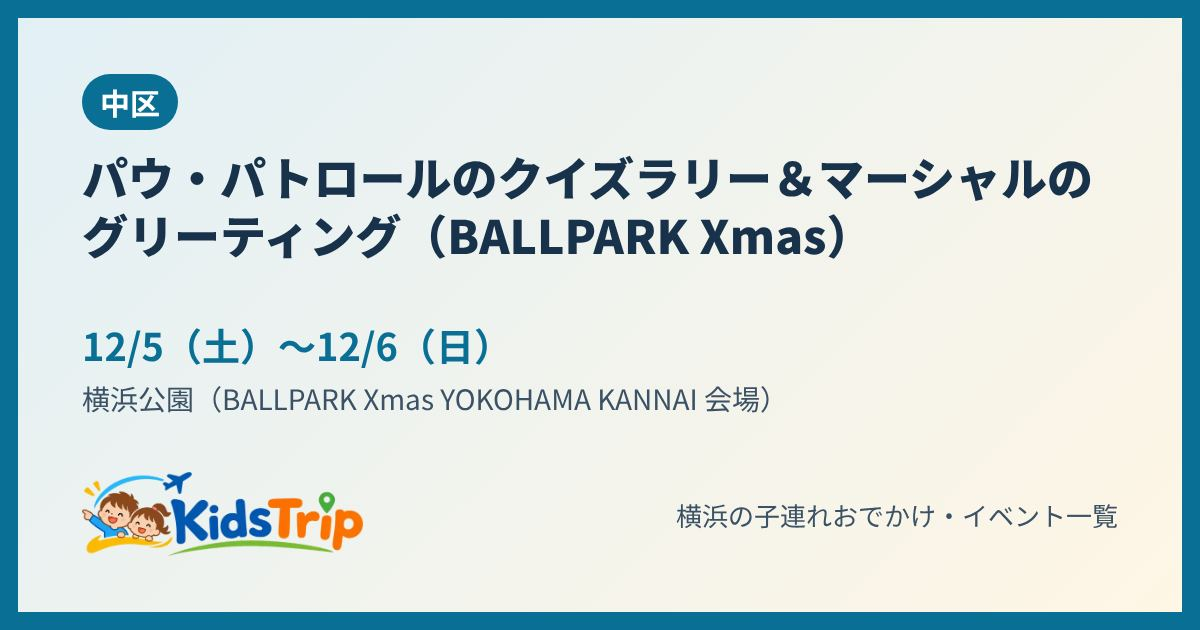
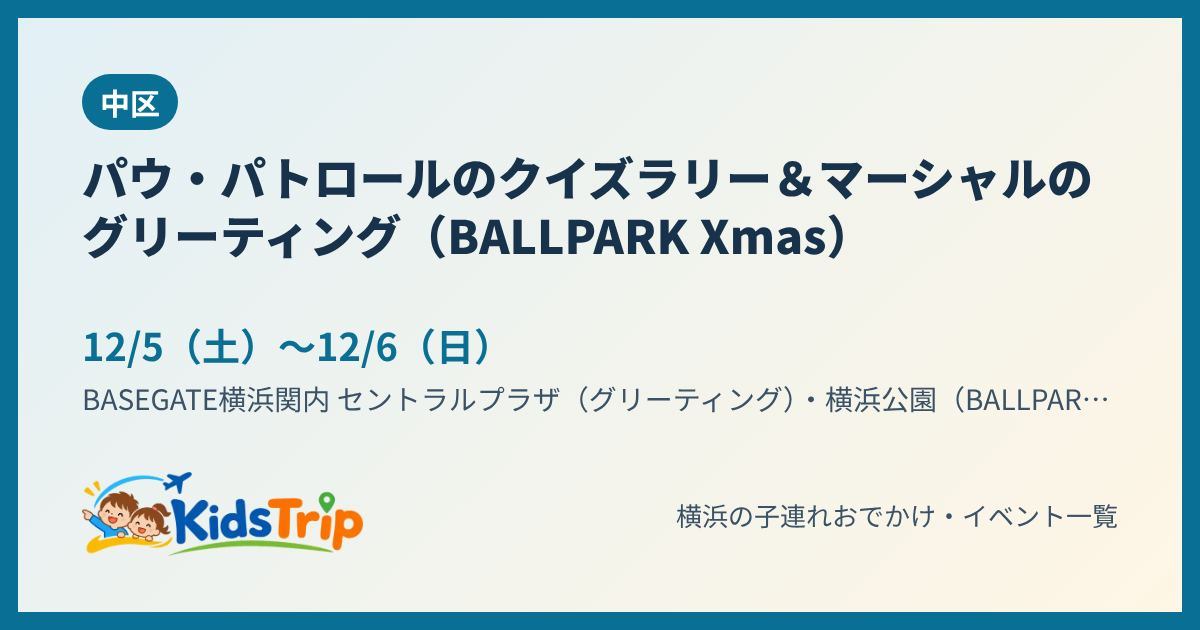
11月26日 夕方の確認：パウ・パトロールのマーシャルのグリーティング（12/5・BASEGATE横浜関内）の時間・整理券を公式で追記
Claude-Session: https://claude.ai/code/session_014AtJ2dSz5dbutQWCRpLEmR

Changed region(s): [[0.0617, 0.6032, 0.925, 0.6635]]

diff --git a/event/x0mfmo/index.html b/event/x0mfmo/index.html
@@ -4,12 +4,12 @@
 <meta charset="utf-8">
 <meta name="viewport" content="width=device-width, initial-scale=1">
 <title>パウ・パトロールのクイズラリー＆マーシャルのグリーティング（BALLPARK Xmas）（中区）｜横浜の子連れイベント｜KidsTrip</title>
-<meta name="description" content="12月5日(土)・12月6日(日)　横浜公園（BALLPARK Xmas YOKOHAMA KANNAI 会場）。横浜公園のクリスマスイベントで、パウ・パトロールのクイズラリーと、マーシャルとのグリーティングがある2日間。11/30〜12/">
+<meta name="description" content="12月5日(土)・12月6日(日)　BASEGATE横浜関内 セントラルプラザ（グリーティング）・横浜公園（BALLPARK Xmas 会場）。パウ・パトロールとBALLPARK Xmasのコラボ。12/5はBASEGATE横浜関内でクリス">
 <link rel="canonical" href="https://kidstrip.jp/event/x0mfmo/">
 <meta property="og:type" content="article">
 <meta property="og:site_name" content="KidsTrip">
 <meta property="og:title" content="パウ・パトロールのクイズラリー＆マーシャルのグリーティング（BALLPARK Xmas）（中区）｜横浜の子連れイベント｜KidsTrip">
-<meta property="og:description" content="12月5日(土)・12月6日(日)　横浜公園（BALLPARK Xmas YOKOHAMA KANNAI 会場）。横浜公園のクリスマスイベントで、パウ・パトロールのクイズラリーと、マーシャルとのグリーティングがある2日間。11/30〜12/">
+<meta property="og:description" content="12月5日(土)・12月6日(日)　BASEGATE横浜関内 セントラルプラザ（グリーティング）・横浜公園（BALLPARK Xmas 会場）。パウ・パトロールとBALLPARK Xmasのコラボ。12/5はBASEGATE横浜関内でクリス">
 <meta property="og:url" content="https://kidstrip.jp/event/x0mfmo/">
 <meta property="og:image" content="https://kidstrip.jp/og/x0mfmo.jpg">
 <meta property="og:image:width" content="1200">
@@ -21,7 +21,7 @@
 <link rel="icon" href="../../img/favicon.png">
 <link rel="apple-touch-icon" href="../../img/apple-touch-icon.png">
 <script type="application/ld+json">{"@context": "https://schema.org", "@type": "BreadcrumbList", "itemListElement": [{"@type": "ListItem", "position": 1, "name": "トップ", "item": "https://kidstrip.jp/"}, {"@type": "ListItem", "position": 2, "name": "イベント一覧", "item": "https://kidstrip.jp/event/"}, {"@type": "ListItem", "position": 3, "name": "パウ・パトロールのクイズラリー＆マーシャルのグリーティング（BALLPARK Xmas）"}]}</script>
-<script type="application/ld+json">{"@context": "https://schema.org", "@type": "Event", "name": "パウ・パトロールのクイズラリー＆マーシャルのグリーティング（BALLPARK Xmas）", "startDate": "2026-12-05", "endDate": "2026-12-06", "eventStatus": "https://schema.org/EventScheduled", "eventAttendanceMode": "https://schema.org/OfflineEventAttendanceMode", "location": {"@type": "Place", "name": "横浜公園（BALLPARK Xmas YOKOHAMA KANNAI 会場）", "address": {"@type": "PostalAddress", "addressLocality": "横浜市中区", "addressRegion": "神奈川県", "addressCountry": "JP"}, "geo": {"@type": "GeoCoordinates", "latitude": 35.4432, "longitude": 139.64}}, "description": "横浜公園のクリスマスイベントで、パウ・パトロールのクイズラリーと、マーシャルとのグリーティングがある2日間。11/30〜12/6は限定ショップ・おもちゃ広場も。", "image": ["https://kidstrip.jp/og/x0mfmo.jpg"], "url": "https://kidstrip.jp/event/x0mfmo/", "isAccessibleForFree": false, "inLanguage": "ja"}</script>
+<script type="application/ld+json">{"@context": "https://schema.org", "@type": "Event", "name": "パウ・パトロールのクイズラリー＆マーシャルのグリーティング（BALLPARK Xmas）", "startDate": "2026-12-05", "endDate": "2026-12-06", "eventStatus": "https://schema.org/EventScheduled", "eventAttendanceMode": "https://schema.org/OfflineEventAttendanceMode", "location": {"@type": "Place", "name": "BASEGATE横浜関内 セントラルプラザ（グリーティング）・横浜公園（BALLPARK Xmas 会場）", "address": {"@type": "PostalAddress", "addressLocality": "横浜市中区", "addressRegion": "神奈川県", "addressCountry": "JP"}, "geo": {"@type": "GeoCoordinates", "latitude": 35.4432, "longitude": 139.64}}, "description": "パウ・パトロールとBALLPARK Xmasのコラボ。12/5はBASEGATE横浜関内でクリスマスの衣装のマーシャルとのグリーティングが3回、横浜公園ではクイズラリーなど。11/30〜12/6は限定ショップ・おもちゃ広場も。", "image": ["https://kidstrip.jp/og/x0mfmo.jpg"], "url": "https://kidstrip.jp/event/x0mfmo/", "isAccessibleForFree": false, "inLanguage": "ja"}</script>
 <style>
 .finder{margin:12px 0 6px;display:flex;flex-wrap:wrap;gap:6px;align-items:center}.finder label{font-weight:700;font-size:.95em;width:100%}.finder input{flex:1;min-width:0;font-size:16px;padding:8px 10px;border:1px solid #c9d3dc;border-radius:8px}
 .toc{margin:6px 0 12px;font-size:.9em;line-height:2}.toc a{display:inline-block;margin:0 8px 0 0;white-space:nowrap}
@@ -57,20 +57,20 @@ footer{margin:28px 0 8px;font-size:12px;color:var(--muted)}
 <ul class="chips"><li>料金要確認</li><li>幼児〜小学生</li><li>屋外</li><li>天気に注意</li></ul>
 <table class="info">
 <tr><th>日にち</th><td>12月5日(土)・12月6日(日)</td></tr>
-<tr><th>時間</th><td>時間は未発表（公式サイトで発表）</td></tr>
-<tr><th>場所</th><td>中区・横浜公園（BALLPARK Xmas YOKOHAMA KANNAI 会場）</td></tr>
+<tr><th>時間</th><td>マーシャルのグリーティングは12/5(土)だけ 11:00〜／13:00〜／15:00〜（各回約30分）。クイズラリーの時間は公式ページに記載なし</td></tr>
+<tr><th>場所</th><td>中区・BASEGATE横浜関内 セントラルプラザ（グリーティング）・横浜公園（BALLPARK Xmas 会場）</td></tr>
 <tr><th>料金</th><td>料金は公式ページに記載なし（BALLPARK Xmasの入場は無料）</td></tr>
 <tr><th>対象</th><td>幼児〜小学生</td></tr>
-<tr><th>予約</th><td>参加方法は公式ページに記載なし</td></tr>
-<tr><th>雨の日</th><td>天気に注意（雨天決行（荒天時は休業の場合あり））</td></tr>
+<tr><th>予約</th><td>グリーティングは各回50組、当日に整理券を配る（配る時間などはBALLPARK Xmasの特設サイト・公式SNSで案内予定）</td></tr>
+<tr><th>雨の日</th><td>天気に注意（グリーティングは悪天候のときBASEGATEのビクトリーゲートで行う）</td></tr>
 </table>
-<p class="sum">横浜公園のクリスマスイベントで、パウ・パトロールのクイズラリーと、マーシャルとのグリーティングがある2日間。11/30〜12/6は限定ショップ・おもちゃ広場も。</p>
-<p class="tip">💡 11/25夕方に利用者が送った公式サイトの画面でも、パウ・パトロールの企画（時間・整理券）はまだ載っていない。行く前に公式サイト・公式SNSで確認を</p>
-<p class="small">情報の時点：2026年11月25日　出典：実行委員会のプレスリリース（2026年11月4日）・横浜市観光情報サイト</p>
+<p class="sum">パウ・パトロールとBALLPARK Xmasのコラボ。12/5はBASEGATE横浜関内でクリスマスの衣装のマーシャルとのグリーティングが3回、横浜公園ではクイズラリーなど。11/30〜12/6は限定ショップ・おもちゃ広場も。</p>
+<p class="tip">💡 グリーティングは当日の整理券制で各回50組。整理券を配り始める時間は特設サイト・公式SNSで発表されるので、前日に確認を。関内駅から歩いて1分</p>
+<p class="small">情報の時点：2026年11月26日　出典：BASEGATE横浜関内 公式（イベント&amp;ニュース「パウ・パトロール マーシャル グリーティング」、2026年11月4日時点の情報。利用者が送ったページ）・実行委員会のプレスリリース（2026年11月4日）</p>
 <div class="btns"><a class="btn main" data-act="official" href="https://ballparkxmas.com/2026/" target="_blank" rel="noopener">公式ページで確認</a>
 <a class="btn" href="/?e=x0mfmo">一覧で見る（行き方・近くのごはん）</a>
 <button type="button" class="btn" data-share="1">🔗 リンクを送る・コピー</button>
-<a class="btn line" href="https://line.me/R/share?text=%E3%80%90%E3%83%91%E3%82%A6%E3%83%BB%E3%83%91%E3%83%88%E3%83%AD%E3%83%BC%E3%83%AB%E3%81%AE%E3%82%AF%E3%82%A4%E3%82%BA%E3%83%A9%E3%83%AA%E3%83%BC%EF%BC%86%E3%83%9E%E3%83%BC%E3%82%B7%E3%83%A3%E3%83%AB%E3%81%AE%E3%82%B0%E3%83%AA%E3%83%BC%E3%83%86%E3%82%A3%E3%83%B3%E3%82%B0%EF%BC%88BALLPARK%20Xmas%EF%BC%89%E3%80%91%0A12%E6%9C%885%E6%97%A5%28%E5%9C%9F%29%E3%83%BB12%E6%9C%886%E6%97%A5%28%E6%97%A5%29%E3%80%80%E6%99%82%E9%96%93%E3%81%AF%E6%9C%AA%E7%99%BA%E8%A1%A8%EF%BC%88%E5%85%AC%E5%BC%8F%E3%82%B5%E3%82%A4%E3%83%88%E3%81%A7%E7%99%BA%E8%A1%A8%EF%BC%89%0A%E5%A0%B4%E6%89%80%EF%BC%9A%E4%B8%AD%E5%8C%BA%E3%83%BB%E6%A8%AA%E6%B5%9C%E5%85%AC%E5%9C%92%EF%BC%88BALLPARK%20Xmas%20YOKOHAMA%20KANNAI%20%E4%BC%9A%E5%A0%B4%EF%BC%89%0Ahttps%3A//kidstrip.jp/event/x0mfmo/" target="_blank" rel="noopener">LINEで送る</a></div>
+<a class="btn line" href="https://line.me/R/share?text=%E3%80%90%E3%83%91%E3%82%A6%E3%83%BB%E3%83%91%E3%83%88%E3%83%AD%E3%83%BC%E3%83%AB%E3%81%AE%E3%82%AF%E3%82%A4%E3%82%BA%E3%83%A9%E3%83%AA%E3%83%BC%EF%BC%86%E3%83%9E%E3%83%BC%E3%82%B7%E3%83%A3%E3%83%AB%E3%81%AE%E3%82%B0%E3%83%AA%E3%83%BC%E3%83%86%E3%82%A3%E3%83%B3%E3%82%B0%EF%BC%88BALLPARK%20Xmas%EF%BC%89%E3%80%91%0A12%E6%9C%885%E6%97%A5%28%E5%9C%9F%29%E3%83%BB12%E6%9C%886%E6%97%A5%28%E6%97%A5%29%E3%80%80%E3%83%9E%E3%83%BC%E3%82%B7%E3%83%A3%E3%83%AB%E3%81%AE%E3%82%B0%E3%83%AA%E3%83%BC%E3%83%86%E3%82%A3%E3%83%B3%E3%82%B0%E3%81%AF12/5%28%E5%9C%9F%29%E3%81%A0%E3%81%91%2011%3A00%E3%80%9C%EF%BC%8F13%3A00%E3%80%9C%EF%BC%8F15%3A00%E3%80%9C%EF%BC%88%E5%90%84%E5%9B%9E%E7%B4%8430%E5%88%86%EF%BC%89%E3%80%82%E3%82%AF%E3%82%A4%E3%82%BA%E3%83%A9%E3%83%AA%E3%83%BC%E3%81%AE%E6%99%82%E9%96%93%E3%81%AF%E5%85%AC%E5%BC%8F%E3%83%9A%E3%83%BC%E3%82%B8%E3%81%AB%E8%A8%98%E8%BC%89%E3%81%AA%E3%81%97%0A%E5%A0%B4%E6%89%80%EF%BC%9A%E4%B8%AD%E5%8C%BA%E3%83%BBBASEGATE%E6%A8%AA%E6%B5%9C%E9%96%A2%E5%86%85%20%E3%82%BB%E3%83%B3%E3%83%88%E3%83%A9%E3%83%AB%E3%83%97%E3%83%A9%E3%82%B6%EF%BC%88%E3%82%B0%E3%83%AA%E3%83%BC%E3%83%86%E3%82%A3%E3%83%B3%E3%82%B0%EF%BC%89%E3%83%BB%E6%A8%AA%E6%B5%9C%E5%85%AC%E5%9C%92%EF%BC%88BALLPARK%20Xmas%20%E4%BC%9A%E5%A0%B4%EF%BC%89%0Ahttps%3A//kidstrip.jp/event/x0mfmo/" target="_blank" rel="noopener">LINEで送る</a></div>
 </article>
 
 <h2>近くのおむつ替え・授乳室・お湯（赤レンガ・象の鼻・山下公園・中華街）</h2><table class="bm"><thead><tr><th>場所</th><th>おむつ替え</th><th>授乳室</th><th>お湯</th><th>レンジ</th></tr></thead><tbody><tr><th scope="row"><a href="/spot/382458/">セブン-イレブン 横浜上野町店</a></th><td class="n">×</td><td class="n">×</td><td class="y">○</td><td class="u">？</td></tr><tr><th scope="row"><a href="/spot/ttxw48/">セブン-イレブン 横浜伊勢佐木町7丁目店</a></th><td class="n">×</td><td class="n">×</td><td class="y">○</td><td class="u">？</td></tr><tr><th scope="row"><a href="/spot/xkkvy6/">柏葉公園こどもログハウス「オークロッジ」</a></th><td class="y">○</td><td class="y">○</td><td class="y">○</td><td class="u">？</td></tr><tr><th scope="row"><a href="/spot/cvsdxj/">シネマ・ジャック＆ベティ</a></th><td class="n">×</td><td class="y">○</td><td class="u">？</td><td class="u">？</td></tr><tr><th scope="row"><a href="/spot/2wui6t/">エコロジーショップ エッセンス</a></th><td class="n">×</td><td class="n">×</td><td class="y">○</td><td class="u">？</td></tr><tr><th scope="row"><a href="/spot/1n21shp/">文具の昭和堂</a></th><td class="n">×</td><td class="n">×</td><td class="y">○</td><td class="u">？</td></tr><tr><th scope="row"><a href="/spot/8q9res/">もりや履物店</a></th><td class="n">×</td><td class="y">○</td><td class="y">○</td><td class="u">？</td></tr><tr><th scope="row"><a href="/spot/185c09g/">田中薬局</a></th><td class="n">×</td><td class="n">×</td><td class="y">○</td><td class="u">？</td></tr><tr><th scope="row"><a href="/spot/ddmagg/">Orelia creative nail</a></th><td class="y">○</td><td class="y">○</td><td class="y">○</td><td class="u">？</td></tr><tr><th scope="row"><a href="/spot/pjipa4/">たかまつ東洋治療院</a></th><td class="n">×</td><td class="y">○</td><td class="u">？</td><td class="u">？</td></tr><tr><th scope="row"><a href="/spot/14uic51/">横浜山手キッズデンタルパーク</a></th><td class="y">○</td><td class="n">×</td><td class="u">？</td><td class="u">？</td></tr><tr><th scope="row"><a href="/spot/1jupo0i/">セブン-イレブン 横浜長者町清正公通り店</a></th><td class="n">×</td><td class="n">×</td><td class="y">○</td><td class="u">？</td></tr><tr><th scope="row"><a href="/spot/1b4sz2f/">セブン-イレブン 横浜伊勢佐木町4丁目店</a></th><td class="n">×</td><td class="n">×</td><td class="y">○</td><td class="u">？</td></tr><tr><th scope="row"><a href="/spot/15qjwmu/">Baby Kids Smile 関内園</a></th><td class="u">？</td><td class="n">×</td><td class="y">○</td><td class="u">？</td></tr><tr><th scope="row"><a href="/spot/1dsid6h/">Hair &amp; Make Passo</a></th><td class="n">×</td><td class="y">○</td><td class="y">○</td><td class="u">？</td></tr><tr><th scope="row"><a href="/spot/r90frm/">NOB Hair Design 伊勢佐木町</a></th><td class="n">×</td><td class="y">○</td><td class="y">○</td><td class="u">？</td></tr><tr><th scope="row"><a href="/spot/qqq9yf/">kiruto</a></th><td class="n">×</td><td class="y">○</td><td class="u">？</td><td class="u">？</td></tr><tr><th scope="row"><a href="/spot/m91q3x/">麦田地域ケアプラザ</a></th><td class="y">○</td><td class="y">○</td><td class="y">○</td><td class="u">？</td></tr><tr><th scope="row"><a href="/spot/cwv5hg/">横浜武道館</a></th><td class="u">？</td><td class="y">○</td><td class="u">？</td><td class="u">？</td></tr><tr><th scope="row"><a href="/spot/1h96vr8/">眼鏡市場 伊勢佐木モール店</a></th><td class="y">○</td><td class="n">×</td><td class="u">？</td><td class="u">？</td></tr><tr><th scope="row"><a href="/spot/4edchx/">不老町地域ケアプラザ</a></th><td class="y">○</td><td class="n">×</td><td class="u">？</td><td class="u">？</td></tr><tr><th scope="row"><a href="/spot/psvb7o/">aimable</a></th><td class="y">○</td><td class="y">○</td><td class="y">○</td><td class="u">？</td></tr><tr><th scope="row"><a href="/spot/1qdpflt/">エスカル横浜</a></th><td class="y">○</td><td class="n">×</td><td class="u">？</td><td class="u">？</td></tr><tr><th scope="row"><a href="/spot/1uq4uv4/">元町スカイビル</a></th><td class="n">×</td><td class="n">×</td><td class="y">○</td><td class="u">？</td></tr><tr><th scope="row"><a href="/spot/1qtyf97/">Luce</a></th><td class="n">×</td><td class="y">○</td><td class="u">？</td><td class="u">？</td></tr><tr><th scope="row"><a href="/spot/2de9w6/">セブン-イレブン 横浜中華街東門店</a></th><td class="n">×</td><td class="n">×</td><td class="y">○</td><td class="u">？</td></tr><tr><th scope="row"><a href="/spot/1hsv2a5/">ヘアサロン イランイラン</a></th><td class="y">○</td><td class="y">○</td><td class="y">○</td><td class="u">？</td></tr><tr><th scope="row"><a href="/spot/1jausgz/">コート・ダジュール 元町・中華街店</a></th><td class="u">？</td><td class="n">×</td><td class="y">○</td><td class="u">？</td></tr><tr><th scope="row"><a href="/spot/1as3aor/">コート・ダジュール 横浜関内店</a></th><td class="y">○</td><td class="n">×</td><td class="u">？</td><td class="u">？</td></tr><tr><th scope="row"><a href="/spot/19are3y/">セブン-イレブン 横浜太田町3丁目店</a></th><td class="n">×</td><td class="n">×</td><td class="y">○</td><td class="u">？</td></tr><tr><th scope="row"><a href="/spot/8spscs/">セブン-イレブン 横浜山下町店</a></th><td class="n">×</td><td class="n">×</td><td class="y">○</td><td class="u">？</td></tr><tr><th scope="row"><a href="/spot/1vhefma/">ローズホテル横浜</a></th><td class="u">？</td><td class="y">○</td><td class="y">○</td><td class="u">？</td></tr><tr><th scope="row"><a href="/spot/1p9y9nf/">POLA 馬車道Ⅱ</a></th><td class="n">×</td><td class="n">×</td><td class="y">○</td><td class="u">？</td></tr><tr><th scope="row"><a href="/spot/m8ab5h/">Ash 関内店</a></th><td class="n">×</td><td class="n">×</td><td class="y">○</td><td class="u">？</td></tr><tr><th scope="row"><a href="/spot/i9e75y/">鍼灸指圧マッサージ レスト</a></th><td class="n">×</td><td class="n">×</td><td class="y">○</td><td class="u">？</td></tr><tr><th scope="row"><a href="/spot/c6a7kv/">ローソン ダイワロイネットホテル横浜公園店</a></th><td class="y">○</td><td class="n">×</td><td class="y">○</td><td class="u">？</td></tr><tr><th scope="row"><a href="/spot/di7xjz/">ローソン 山下町本町通店</a></th><td class="n">×</td><td class="n">×</td><td class="y">○</td><td class="u">？</td></tr><tr><th scope="row"><a href="/spot/7srsea/">日本赤十字社 神奈川県支部</a></th><td class="y">○</td><td class="y">○</td><td class="u">？</td><td class="u">？</td></tr><tr><th scope="row"><a href="/spot/6xpari/">Lily チャイナドレス・漢服レンタル</a></th><td class="y">○</td><td class="y">○</td><td class="u">？</td><td class="u">？</td></tr><tr><th scope="row"><a href="/spot/1n3zykx/">和ぎ整体院</a></th><td class="n">×</td><td class="y">○</td><td class="y">○</td><td class="u">？</td></tr><tr><th scope="row"><a href="/spot/ty2zv2/">HOME&#x27;S 新山下</a></th><td class="u">？</td><td class="y">○</td><td class="u">？</td><td class="u">？</td></tr><tr><th scope="row"><a href="/spot/1rkdk6a/">BASEGATE横浜関内</a></th><td class="y">○</td><td class="y">○</td><td class="y">○</td><td class="u">？</td></tr><tr><th scope="row"><a href="/spot/184ayrj/">ドン・キホーテ</a></th><td class="u">？</td><td class="u">？</td><td class="u">？</td><td class="n">×</td></tr><tr><th scope="row"><a href="/spot/gue82u/">アクアリウム宇宙旅行 UNDER WATER SPACE</a></th><td class="y">○</td><td class="y">○</td><td class="y">○</td><td class="u">？</td></tr><tr><th scope="row"><a href="/spot/1yijbwh/">外交官の家</a></th><td class="y">○</td><td class="y">○</td><td class="n">×</td><td class="u">？</td></tr><tr><th scope="row"><a href="/spot/jov9g8/">横浜ユーラシア文化館</a></th><td class="y">○</td><td class="y">○</td><td class="n">×</td><td class="u">？</td></tr><tr><th scope="row"><a href="/spot/qj2jy6/">横浜都市発展記念館</a></th><td class="y">○</td><td class="y">○</td><td class="n">×</td><td class="u">？</td></tr><tr><th scope="row"><a href="/spot/7kour8/">横浜市開港記念会館</a></th><td class="y">○</td><td class="y">○</td><td class="u">？</td><td class="u">？</td></tr><tr><th scope="row"><a href="/spot/co5mie/">横浜大世界</a></th><td class="y">○</td><td class="n">×</td><td class="u">？</td><td class="u">？</td></tr><tr><th scope="row"><a href="/spot/1bni2wb/">横浜スタジアム</a></th><td class="y">○</td><td class="y">○</td><td class="n">×</td><td class="u">？</td></tr><tr><th scope="row"><a href="/spot/aa2xc0/">横浜市イギリス館</a></th><td class="y">○</td><td class="n">×</td><td class="u">？</td><td class="u">？</td></tr><tr><th scope="row"><a href="/spot/r2jkwf/">山手資料館</a></th><td class="y">○</td><td class="n">×</td><td class="u">？</td><td class="u">？</td></tr><tr><th scope="row"><a href="/spot/buoer4/">山手234番館</a></th><td class="y">○</td><td class="y">○</td><td class="n">×</td><td class="u">？</td></tr><tr><th scope="row"><a href="/spot/1fg72i8/">山手111番館</a></th><td class="y">○</td><td class="n">×</td><td class="u">？</td><td class="u">？</td></tr><tr><th scope="row"><a href="/spot/3nvg5r/">エリスマン邸</a></th><td class="y">○</td><td class="n">×</td><td class="u">？</td><td class="u">？</td></tr><tr><th scope="row"><a href="/spot/6rifv7/">横浜税関 資料室</a></th><td class="y">○</td><td class="n">×</td><td class="u">？</td><td class="u">？</td></tr><tr><th scope="row"><a href="/spot/11zsskf/">横浜開港資料館</a></th><td class="y">○</td><td class="n">×</td><td class="u">？</td><td class="u">？</td></tr><tr><th scope="row"><a href="/spot/11yqwmv/">元町ショッピングストリート</a></th><td class="y">○</td><td class="y">○</td><td class="y">○</td><td class="u">？</td></tr><tr><th scope="row"><a href="/spot/svcp0u/">放送ライブラリー</a></th><td class="y">○</td><td class="n">×</td><td class="u">？</td><td class="u">？</td></tr><tr><th scope="row"><a href="/spot/1udotm9/">ニュースパーク</a></th><td class="y">○</td><td class="n">×</td><td class="u">？</td><td class="u">？</td></tr><tr><th scope="row"><a href="/spot/1sxo28u/">日本郵船氷川丸</a></th><td class="y">○</td><td class="n">×</td><td class="n">×</td><td class="u">？</td></tr><tr><th scope="row"><a href="/spot/fpf3hr/">シルク博物館</a></th><td class="y">○</td><td class="n">×</td><td class="u">？</td><td class="u">？</td></tr><tr><th scope="row"><a href="/spot/1sptgqk/">神奈川県立歴史博物館</a></th><td class="y">○</td><td class="y">○</td><td class="n">×</td><td class="u">？</td></tr><tr><th scope="row"><a href="/spot/u3gyv7/">神奈川近代文学館</a></th><td class="y">○</td><td class="y">○</td><td class="n">×</td><td class="u">？</td></tr><tr><th scope="row"><a href="/spot/16gskoe/">神奈川県庁 本庁舎</a></th><td class="y">○</td><td class="y">○</td><td class="y">○</td><td class="u">？</td></tr><tr><th scope="row"><a href="/spot/1kec307/">ロイヤルウイング</a></th><td class="y">○</td><td class="y">○</td><td class="n">×</td><td class="u">？</td></tr><tr><th scope="row"><a href="/spot/1pgq843/">マリーンルージュ</a></th><td class="y">○</td><td class="n">×</td><td class="u">？</td><td class="u">？</td></tr><tr><th scope="row"><a href="/spot/hilv0a/">横浜港 大さん橋国際客船ターミナル</a></th><td class="y">○</td><td class="y">○</td><td class="n">×</td><td class="u">？</td></tr><tr><th scope="row"><a href="/spot/1ncpds8/">カップヌードルミュージアム 横浜</a></th><td class="y">○</td><td class="y">○</td><td class="y">○</td><td class="u">？</td></tr><tr><th scope="row"><a href="/spot/nsqtn/">横浜人形の家</a></th><td class="y">○</td><td class="n">×</td><td class="n">×</td><td class="u">？</td></tr><tr><th scope="row"><a href="/spot/12pvzvc/">横浜博覧館</a></th><td class="y">○</td><td class="n">×</td><td class="n">×</td><td class="u">？</td></tr><tr><th scope="row"><a href="/spot/1ikiitx/">MARINE &amp; WALK YOKOHAMA</a></th><td class="y">○</td><td class="y">○</td><td class="y">○</td><td class="u">？</td></tr><tr><th scope="row"><a href="/spot/18k2nx4/">横浜ワールドポーターズ</a></th><td class="y">○</td><td class="y">○</td><td class="y">○</td><td class="y">○</td></tr><tr><th scope="row"><a href="/spot/eizyq4/">横浜赤レンガ倉庫</a></th><td class="y">○</td><td class="y">○</td><td class="y">○</td><td class="u">？</td></tr><tr><th scope="row"><a href="/spot/su1u2h/">横浜ハンマーヘッド</a></th><td class="y">○</td><td class="y">○</td><td class="y">○</td><td class="u">？</td></tr><tr><th scope="row"><a href="/spot/1jpsbg5/">象の鼻テラス</a></th><td class="y">○</td><td class="n">×</td><td class="n">×</td><td class="u">？</td></tr><tr><th scope="row"><a href="/spot/xkhnmi/">横浜マリンタワー</a></th><td class="y">○</td><td class="y">○</td><td class="n">×</td><td class="u">？</td></tr><tr><th scope="row"><a href="/spot/1hgp91k/">THE WHARF HOUSE 山下公園</a></th><td class="y">○</td><td class="y">○</td><td class="y">○</td><td class="u">？</td></tr><tr><th scope="row"><a href="/spot/omd360/">横浜中華街</a></th><td class="y">○</td><td class="n">×</td><td class="u">？</td><td class="u">？</td></tr><tr><th scope="row"><a href="/spot/d63d8s/">のんびりんこ</a></th><td class="y">○</td><td class="y">○</td><td class="y">○</td><td class="y">○</td></tr></tbody></table><p class="legend">○ あり　× なし　？ 調べた範囲で確認できず</p>

diff --git a/js/data.js b/js/data.js
@@ -1207,11 +1207,11 @@ EVENTS.push(
     resv:false, resvText:"予約不要", age:[0,99], ageText:"全年齢", kind:"ongoing", start:660,
     sum:"横浜スタジアムのある横浜公園のクリスマスイベント。キッズエリアの「レゴブロック プレイグラウンド」やデュプロがたくさん入った「レゴプール」で会期中自由に遊べるほか、日にち限定でレゴブロックの組み立て体験、レゴサンタとのグリーティング、会場の4か所に隠れたレゴサンタを探してミニキットがもらえるラリーも。BASEGATE横浜関内3階のルーフガーデンにも日にち限定でレゴのキッズスペースが出る。11/30〜12/6はパウ・パトロールのショップとおもちゃ広場、12/14〜25はムーミンのショップが出る。",
     tip:"関内駅・日本大通り駅からすぐ。レゴの日にち限定の企画は公式サイトで確認を（ミニフィギュアの組み立ては11/21〜23で終了）。ベイスターズのDB.スターマンからサイン入りマグカップを受け取れる会（先着120名）は参加券を11/30から販売", url:"https://ballparkxmas.com/2026/", src:"公式サイト（11/25に利用者が送った画面）・実行委員会のプレスリリース（2026年11月4日）・横浜市観光情報サイト", asof:"2026年11月25日" },
-  { t:"パウ・パトロールのクイズラリー＆マーシャルのグリーティング（BALLPARK Xmas）", days:["12/5","12/6"], time:"時間は未発表（公式サイトで発表）", ward:"中区", venue:"横浜公園（BALLPARK Xmas YOKOHAMA KANNAI 会場）",
-    price:"unknown", priceText:"料金は公式ページに記載なし（BALLPARK Xmasの入場は無料）", place:"屋外", rain:"check", rainText:"雨天決行（荒天時は休業の場合あり）",
-    resv:null, resvText:"参加方法は公式ページに記載なし", age:[0,12], ageText:"幼児〜小学生", kind:"limited", start:660,
-    sum:"横浜公園のクリスマスイベントで、パウ・パトロールのクイズラリーと、マーシャルとのグリーティングがある2日間。11/30〜12/6は限定ショップ・おもちゃ広場も。",
-    tip:"11/25夕方に利用者が送った公式サイトの画面でも、パウ・パトロールの企画（時間・整理券）はまだ載っていない。行く前に公式サイト・公式SNSで確認を", url:"https://ballparkxmas.com/2026/", src:"実行委員会のプレスリリース（2026年11月4日）・横浜市観光情報サイト", asof:"2026年11月25日" },
+  { t:"パウ・パトロールのクイズラリー＆マーシャルのグリーティング（BALLPARK Xmas）", days:["12/5","12/6"], time:"マーシャルのグリーティングは12/5(土)だけ 11:00〜／13:00〜／15:00〜（各回約30分）。クイズラリーの時間は公式ページに記載なし", ward:"中区", venue:"BASEGATE横浜関内 セントラルプラザ（グリーティング）・横浜公園（BALLPARK Xmas 会場）",
+    price:"unknown", priceText:"料金は公式ページに記載なし（BALLPARK Xmasの入場は無料）", place:"屋外", rain:"check", rainText:"グリーティングは悪天候のときBASEGATEのビクトリーゲートで行う",
+    resv:false, resvText:"グリーティングは各回50組、当日に整理券を配る（配る時間などはBALLPARK Xmasの特設サイト・公式SNSで案内予定）", age:[0,12], ageText:"幼児〜小学生", kind:"limited", start:660,
+    sum:"パウ・パトロールとBALLPARK Xmasのコラボ。12/5はBASEGATE横浜関内でクリスマスの衣装のマーシャルとのグリーティングが3回、横浜公園ではクイズラリーなど。11/30〜12/6は限定ショップ・おもちゃ広場も。",
+    tip:"グリーティングは当日の整理券制で各回50組。整理券を配り始める時間は特設サイト・公式SNSで発表されるので、前日に確認を。関内駅から歩いて1分", url:"https://ballparkxmas.com/2026/", src:"BASEGATE横浜関内 公式（イベント&ニュース「パウ・パトロール マーシャル グリーティング」、2026年11月4日時点の情報。利用者が送ったページ）・実行委員会のプレスリリース（2026年11月4日）", asof:"2026年11月26日" },
   { t:"ムーミン MEET & GREET（BALLPARK Xmas・横浜公園）", days:["12/20"], time:"11:00・13:00・15:00の3回", ward:"中区", venue:"横浜公園（BALLPARK Xmas YOKOHAMA KANNAI 会場）",
     price:"unknown", priceText:"料金は公式ページに記載なし（BALLPARK Xmasの入場は無料）", place:"屋外", rain:"check", rainText:"雨の日の扱いは公式ページに記載なし",
     resv:null, resvText:"予約・整理券は公式ページに記載なし", age:[0,99], ageText:"全年齢", kind:"limited", start:660,

diff --git a/index.html b/index.html
@@ -1004,7 +1004,7 @@ details.ledemore .lede { margin-top: 4px; }
   </footer>
 </div>
 
-<script src="js/data.js?v=f42cfc54d5" defer></script>
+<script src="js/data.js?v=8c2daf2ec0" defer></script>
 <script src="js/app.js?v=27e0394bd8" defer></script>
 </body>
 </html>

diff --git a/tools/runs.md b/tools/runs.md
@@ -169,3 +169,4 @@
 | 2026-11-26 | 利用者との作業 | 09:43ごろ | 4 | 食事の目安タブのお店カード・印・注意書き・検索欄を、暗い画面（ダークモード）でも読める色に |
 | 2026-11-26 | 昼の確認 | 11:41〜11:49 | 1 | 未発表のもの（BALLPARK Xmasのパウ・パトロール、tvkハウジングプラザ）は公式が開けず据え置き。ららぽーと横浜のドラえもんツリーに館内の場所・スタンプラリー・ワークショップを公式で追記。ワールドポーターズ・MARK IS・クイーンズスクエア・ららぽーとの今週末〜来週末は既に掲載済み |
 | 2026-11-26 | 夕方の確認 | 16:42〜16:48 | 1 | 未発表のもの（BALLPARK Xmasのパウ・パトロール、tvkハウジングプラザのフェア）は公式が開けず・検索でも新情報なしで据え置き。トレッサ横浜・モザイクモール港北・ベイクォーターのお知らせを見たが、新しい親子向けイベントはなし（モザイクのプラネタリウムは2024年の記事）。サイトは変更なし |
+| 2026-11-26 | 利用者との作業 | 17:28ごろ | 2 | 利用者が送ったBASEGATE横浜関内の公式ページから、パウ・パトロールのマーシャルのグリーティング（12/5 11:00・13:00・15:00、各回50組、当日整理券、悪天候時はビクトリーゲート）を追記 |
